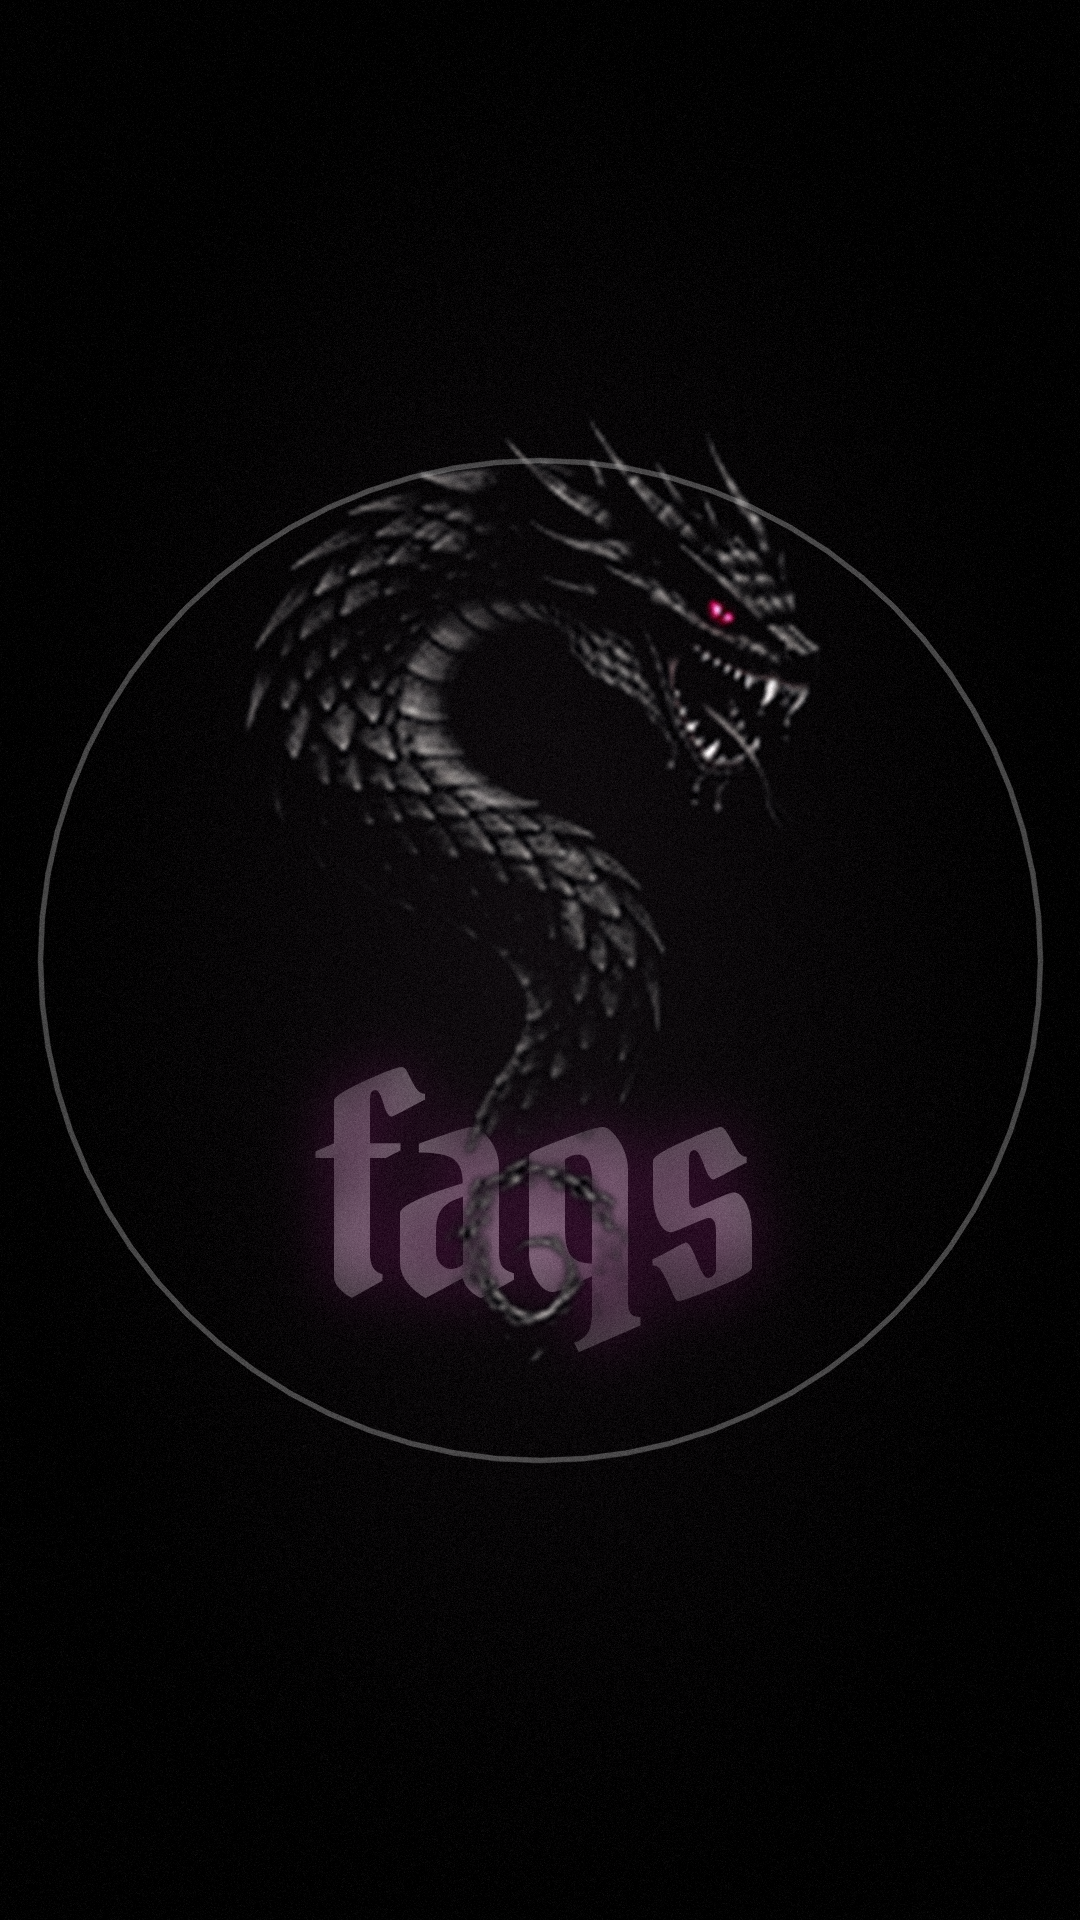
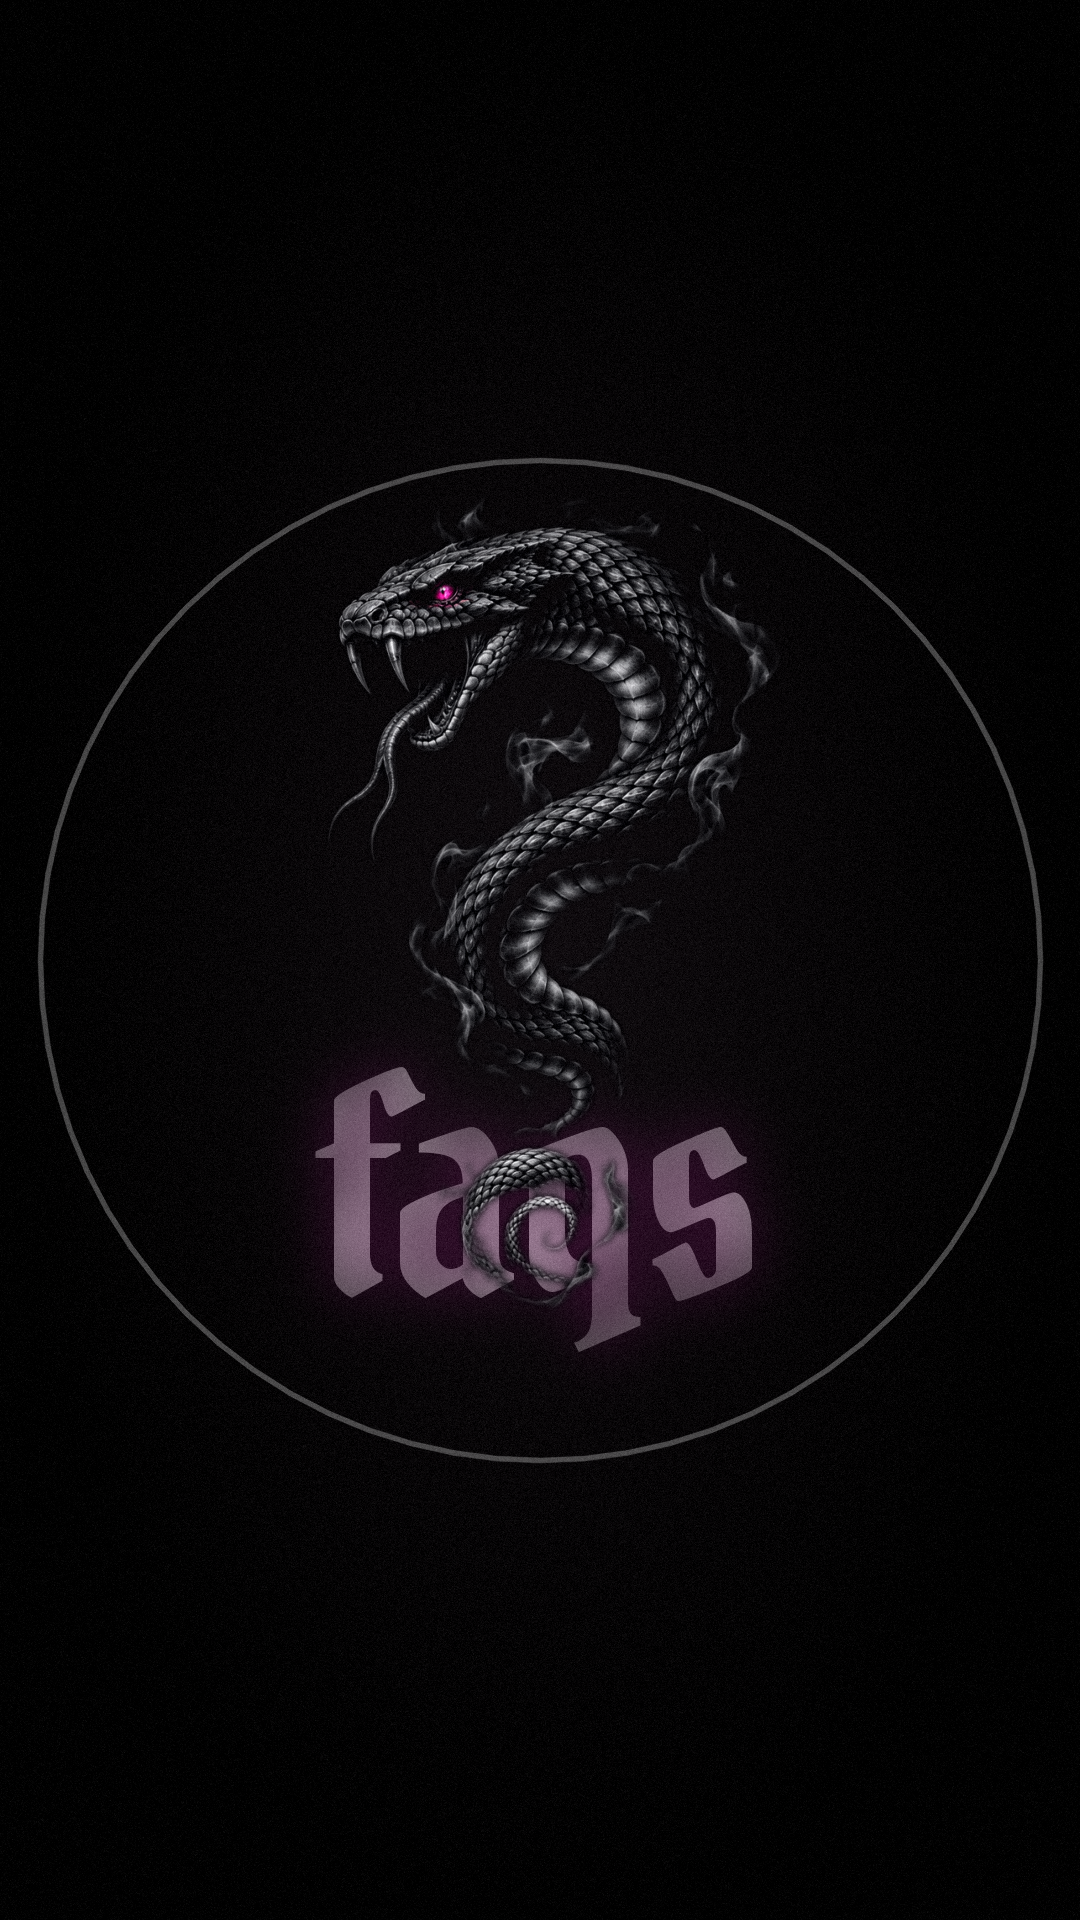
Highlight covers: full-size realistic art for all four (Figma AI), name set behind the subject
Claude-Session: https://claude.ai/code/session_01UxfUGVuyJAH9CatYfRoXCg

Changed region(s): [[0.2139, 0.2188, 0.7639, 0.6875], [0.6417, 0.2188, 0.6722, 0.25]]

diff --git a/brand/highlight-covers/compose.py b/brand/highlight-covers/compose.py
@@ -71,7 +71,7 @@ def word_layer(word, cy):
     n = cv2.resize(rng.random((48, 27)).astype(np.float32), (W, H), interpolation=cv2.INTER_CUBIC)
     n = cv2.GaussianBlur(n, (0, 0), 25)
     n = (n - n.min()) / (n.max() - n.min() + 1e-9)
-    tone = 0.18 + 0.22 * n  # dim, uneven grey
+    tone = 0.24 + 0.26 * n  # dim, uneven grey
     rgb = np.dstack([tone * 235, tone * 228, tone * 232]) * m[..., None]
     glow = cv2.GaussianBlur(m, (0, 0), 30)[..., None] * np.array(PINK, np.float32)[None, None] * 0.22
     edge = cv2.GaussianBlur(m, (0, 0), 1.2)
@@ -87,7 +87,7 @@ def compose(art_path, word, out):
         outside = np.hypot(xx - w / 2, yy - h / 2) > min(h, w) / 2 - 2
         art[outside] = 0
     art = grade(art)
-    side = 1000
+    side = 860
     art = cv2.resize(art, (side, side), interpolation=cv2.INTER_LANCZOS4 if art.shape[0] < side else cv2.INTER_AREA)
     mask = subject_mask(art)
 
@@ -99,7 +99,7 @@ def compose(art_path, word, out):
     word_rgb, wm, _ = word_layer(word, H / 2 + 250)
     canvas = canvas * (1 - wm[..., None] * 0.9) + word_rgb
 
-    x0, y0 = (W - side) // 2, (H - side) // 2 - 60
+    x0, y0 = (W - side) // 2, (H - side) // 2 - 50
     reg = canvas[y0:y0 + side, x0:x0 + side]
     m = mask[..., None]
     canvas[y0:y0 + side, x0:x0 + side] = reg * (1 - m) + art.astype(np.float32) * m
